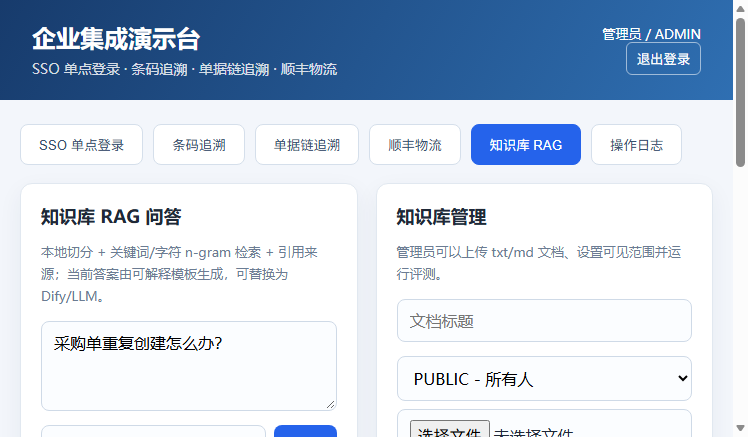
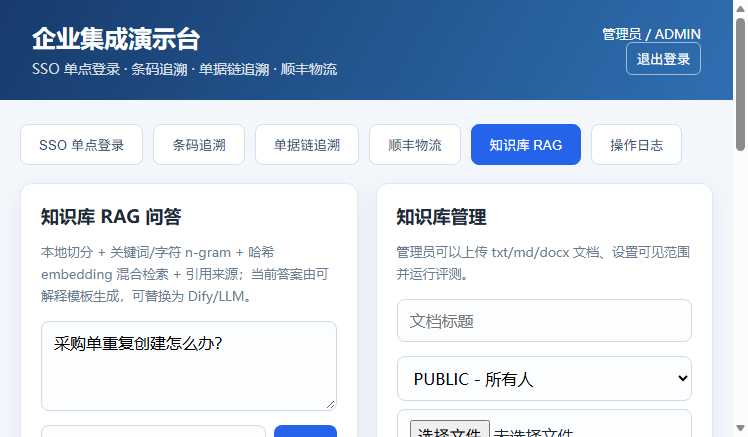
文档：补充混合 RAG 说明和最新截图

diff --git a/README.md b/README.md
@@ -4,7 +4,7 @@
 
 - **Agent Gateway Demo**：短期用户上下文、工具注册、库存查询、采购草稿、确认执行、幂等和 SSE
 - **Business Integrations Demo**：SSO 单点登录、条码追溯、单据链追溯、顺丰物流模拟
-- **RAG Knowledge Base**：文档切分、关键词/字符 n-gram 检索、引用来源、权限过滤和评测
+- **RAG Knowledge Base**：文档切分、关键词 + 哈希 embedding 混合检索、引用来源、权限过滤和评测
 - **Vue 2 控制台**：在一个页面演示 SSO、条码、单据链和顺丰流程
 
 项目使用 Java 8、Spring Boot 2.7、Vue 2 和 MySQL/Redis 可选配置。
@@ -86,7 +86,8 @@ validate
 ### 5. RAG
 
 - 文档按固定窗口切分，带重叠
-- 关键词和中文双字 n-gram 检索
+- 关键词、中文双字 n-gram 和哈希 embedding 混合检索
+- 支持 txt / md / docx 文档
 - 可见范围：PUBLIC / OPERATOR / ADMIN
 - 返回引用片段和分数
 - 内置 5 条评测问题

diff --git a/docs/architecture.md b/docs/architecture.md
@@ -79,7 +79,7 @@ Web / Agent UI
 ```text
 文档
   -> 固定窗口切分（带重叠）
-  -> 关键词 + 中文双字 n-gram 索引
+  -> 关键词 + 中文双字 n-gram + 哈希 embedding
   -> 按角色过滤可见文档
   -> TopK 检索
   -> 引用片段 + 模板答案
